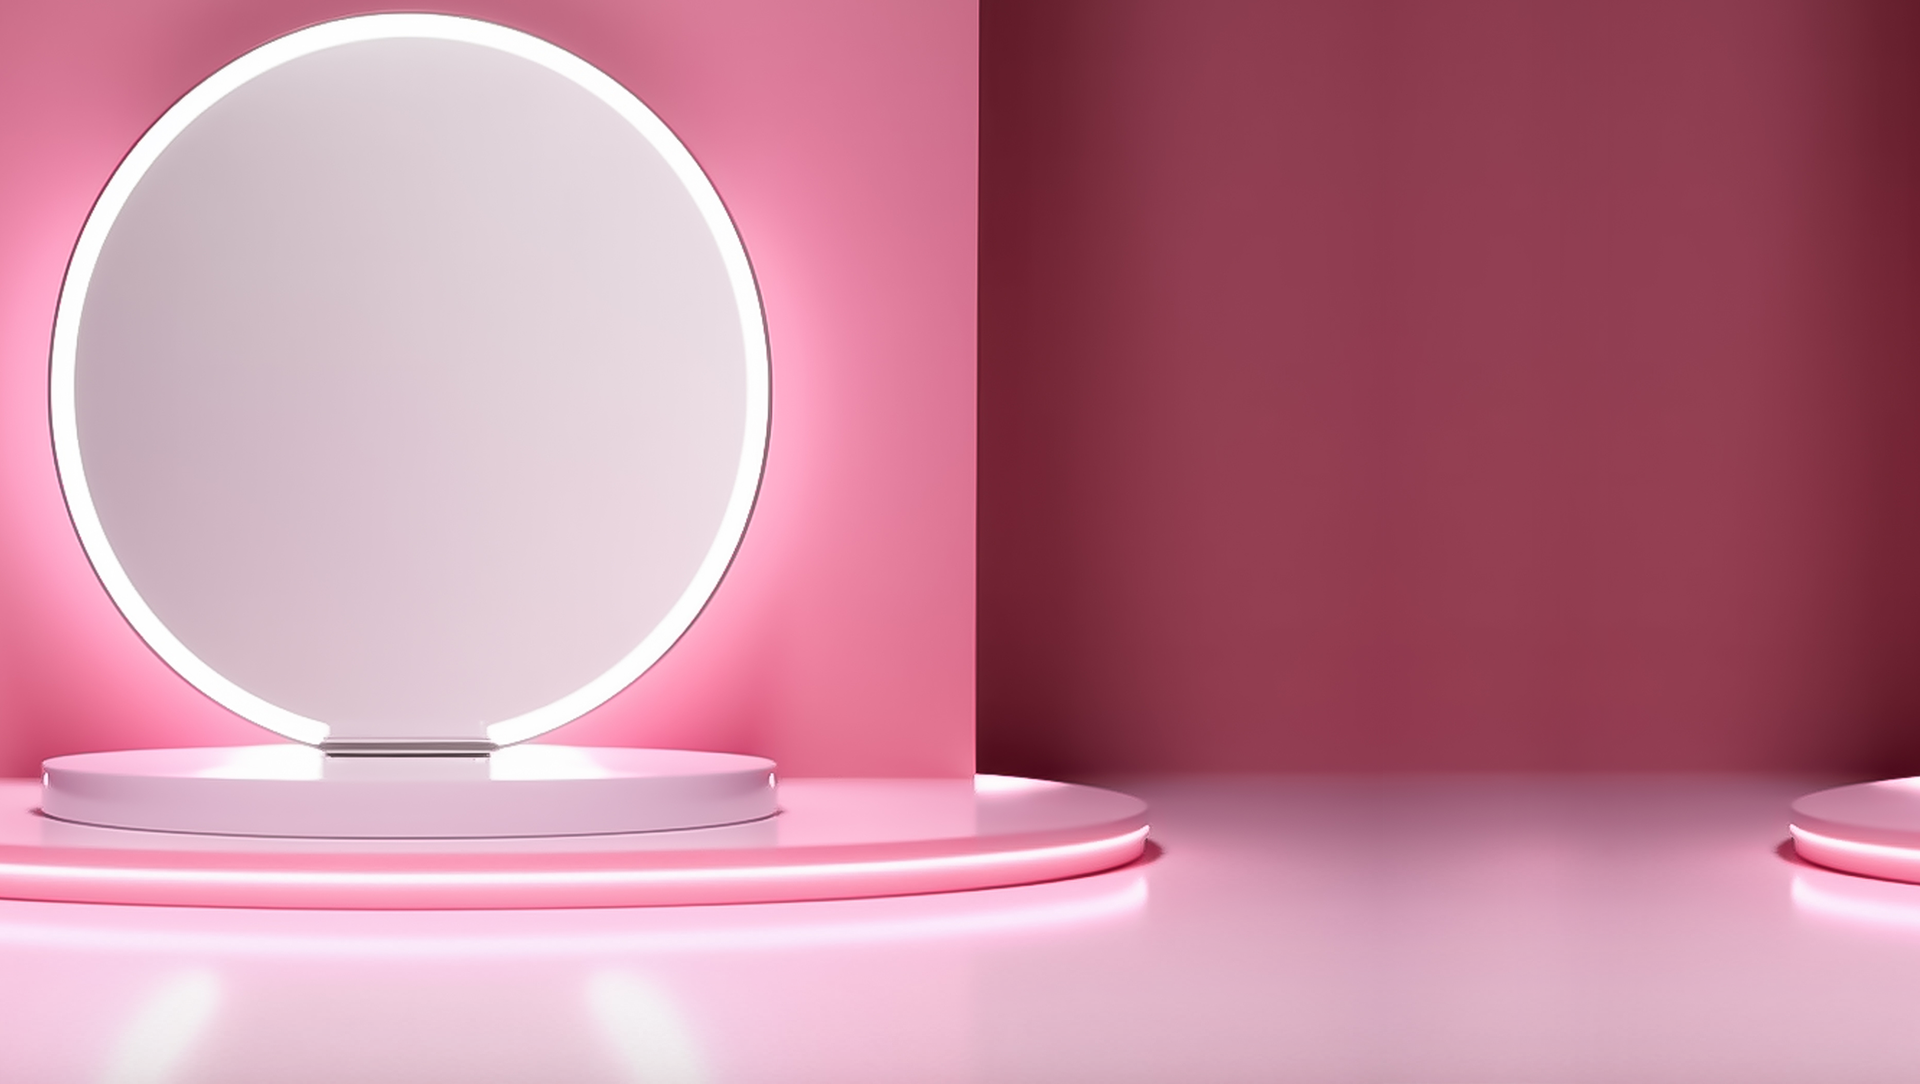
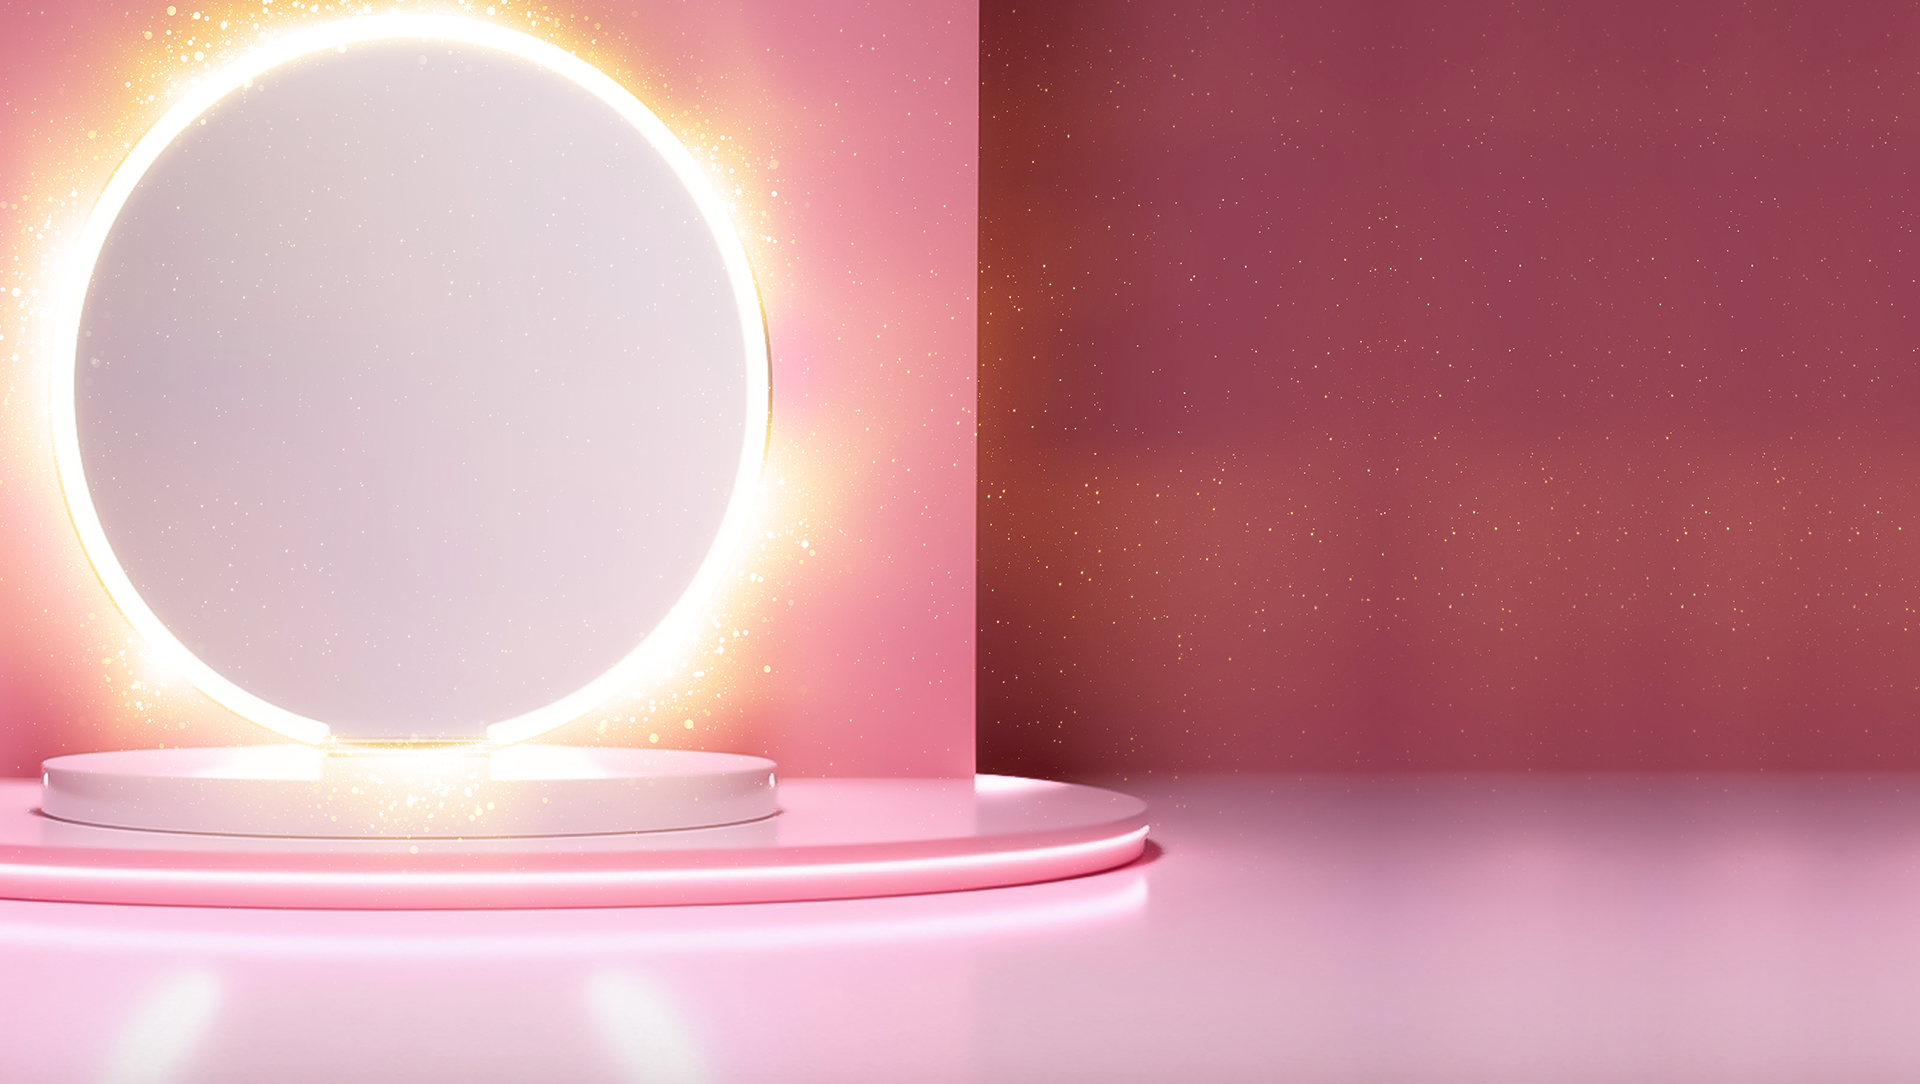
add new update for newlp

Changed region(s): [[0.0, 0.0, 0.625, 0.822], [0.9062, 0.0, 1.0, 0.8828]]

diff --git a/newLp/wheelnew.html b/newLp/wheelnew.html
@@ -1,0 +1,305 @@
+<!DOCTYPE html>
+<html lang="en">
+<head>
+    <meta charset="UTF-8">
+    <meta http-equiv="X-UA-Compatible" content="IE=edge">
+    <meta name="viewport" content="width=device-width, initial-scale=1.0">
+    <script src="https://cdnjs.cloudflare.com/ajax/libs/jquery/3.6.4/jquery.min.js"
+    integrity="sha512-pumBsjNRGGqkPzKHndZMaAG+bir374sORyzM3uulLV14lN5LyykqNk8eEeUlUkB3U0M4FApyaHraT65ihJhDpQ=="
+    crossorigin="anonymous" referrerpolicy="no-referrer"></script>
+
+    <style>
+        * {
+	 box-sizing: border-box;
+}
+ html {
+	 font-size: 100%;
+}
+ .orbit {
+	 background: #090c29;
+	 float: left;
+	 width: 100%;
+	 min-width: 100vw;
+	 min-height: 100vh;
+}
+ .orbit-icon {
+	 width: 1.6em;
+	 height: 1.6em;
+	 line-height: 1.6em;
+	 font-size: 1.2em;
+	 border-radius: 50%;
+	 background: #ccc;
+	 color: #fff;
+	 text-align: center;
+	 display: block;
+}
+ .orbit-wrap {
+	 height: 40em;
+	 list-style: none;
+	 font-size: 1.3em;
+}
+ .orbit-wrap > li {
+	 position: absolute;
+	 left: 50%;
+	 top: 50%;
+	 transform: translate(-50%, -50%);
+}
+ .orbit-wrap > li:hover ul {
+	 border-width: 2px;
+	 border-color: #fff;
+}
+ .orbit-wrap > li:hover ~ li ul {
+	 border-color: rgba(255, 255, 255, 0.2);
+}
+ .orbit-wrap > li:hover ~ li ul li {
+	 opacity: 0.4;
+}
+ ul[class^=ring] {
+	 transition: all 300ms ease-in-out;
+}
+ ul[class^=ring] li {
+	 transition: all 300ms ease-in-out;
+}
+ .ring-0 {
+	 width: 25em;
+	 height: 25em;
+	 animation: clockwiseRotate 35s linear infinite;
+}
+ .ring-0 i {
+	 animation: counterClockwiseRotate 35s linear infinite;
+}
+ .ring-0 > *:nth-of-type(1) {
+	 transform: rotate(95deg) translate(12.5em) rotate(-95deg);
+}
+ .ring-0 > *:nth-of-type(2) {
+	 transform: rotate(190deg) translate(12.5em) rotate(-190deg);
+}
+ .ring-0 > *:nth-of-type(3) {
+	 transform: rotate(285deg) translate(12.5em) rotate(-285deg);
+}
+ .ring-0 > *:nth-of-type(4) {
+	 transform: rotate(380deg) translate(12.5em) rotate(-380deg);
+}
+ .ring-1 {
+	 width: 20em;
+	 height: 20em;
+	 animation: clockwiseRotate 30s linear infinite;
+}
+ .ring-1 i {
+	 animation: counterClockwiseRotate 30s linear infinite;
+}
+ .ring-1 > *:nth-of-type(1) {
+	 transform: rotate(126.6666666667deg) translate(10em) rotate(-126.6666666667deg);
+}
+ .ring-1 > *:nth-of-type(2) {
+	 transform: rotate(253.3333333333deg) translate(10em) rotate(-253.3333333333deg);
+}
+ .ring-1 > *:nth-of-type(3) {
+	 transform: rotate(380deg) translate(10em) rotate(-380deg);
+}
+ .ring-2 {
+	 width: 15em;
+	 height: 15em;
+	 animation: clockwiseRotate 25s linear infinite;
+}
+ .ring-2 i {
+	 animation: counterClockwiseRotate 25s linear infinite;
+}
+ .ring-2 > *:nth-of-type(1) {
+	 transform: rotate(47.5deg) translate(7.5em) rotate(-47.5deg);
+}
+ .ring-2 > *:nth-of-type(2) {
+	 transform: rotate(95deg) translate(7.5em) rotate(-95deg);
+}
+ .ring-2 > *:nth-of-type(3) {
+	 transform: rotate(142.5deg) translate(7.5em) rotate(-142.5deg);
+}
+ .ring-2 > *:nth-of-type(4) {
+	 transform: rotate(190deg) translate(7.5em) rotate(-190deg);
+}
+ .ring-2 > *:nth-of-type(5) {
+	 transform: rotate(237.5deg) translate(7.5em) rotate(-237.5deg);
+}
+ .ring-2 > *:nth-of-type(6) {
+	 transform: rotate(285deg) translate(7.5em) rotate(-285deg);
+}
+ .ring-2 > *:nth-of-type(7) {
+	 transform: rotate(332.5deg) translate(7.5em) rotate(-332.5deg);
+}
+ .ring-2 > *:nth-of-type(8) {
+	 transform: rotate(380deg) translate(7.5em) rotate(-380deg);
+}
+ .ring-3 {
+	 width: 10em;
+	 height: 10em;
+	 animation: clockwiseRotate 20s linear infinite;
+}
+ .ring-3 i {
+	 animation: counterClockwiseRotate 20s linear infinite;
+}
+ .ring-3 > *:nth-of-type(1) {
+	 transform: rotate(126.6666666667deg) translate(5em) rotate(-126.6666666667deg);
+}
+ .ring-3 > *:nth-of-type(2) {
+	 transform: rotate(253.3333333333deg) translate(5em) rotate(-253.3333333333deg);
+}
+ .ring-3 > *:nth-of-type(3) {
+	 transform: rotate(380deg) translate(5em) rotate(-380deg);
+}
+ ul[class^=ring] {
+	 border: solid 1px rgba(33, 150, 243, 0.8);
+	 position: relative;
+	 padding: 0;
+	 border-radius: 50%;
+	 list-style: none;
+	 box-sizing: content-box;
+}
+ ul[class^=ring] li {
+	 display: block;
+	 position: absolute;
+	 top: 50%;
+	 left: 50%;
+	 width: 1.6em;
+	 height: 1.6em;
+	 margin: -0.8em;
+}
+/* center;
+ */
+ .orbit-center {
+	 z-index: 5;
+	 font-size: 2em;
+	 width: 1.8em;
+	 height: 1.8em;
+	 line-height: 1.8em;
+	 text-align: center;
+	 background: hotpink;
+	 border-radius: 50%;
+}
+/*  .orbit-center:hover .orbit-center__icon {
+	 transform: rotateZ(0deg);
+} */
+/*  .orbit-center__icon {
+	 transform: rotateZ(-360deg);
+	 transition: all 300ms ease-in-out;
+} */
+/*  .orbit-wrap > li.orbit-center:hover ~ li > ul {
+	 width: 0;
+	 height: 0;
+} */
+/*  .orbit-wrap > li.orbit-center:hover ~ li > ul * {
+	 transform: translate(0, 0);
+} */
+/* .orbit-wrap > li > ul {
+  transform: translateY(-200%);
+  transition: transform 0.5s ease;
+} */
+
+/* .orbit-wrap > li.orbit-center-expanded > ul {
+  transform: translate(0, 0);
+} */
+/* animations */
+ @keyframes clockwiseRotate {
+	 from {
+		 transform: rotate(0deg);
+	}
+	 to {
+		 transform: rotate(360deg);
+	}
+}
+ @keyframes counterClockwiseRotate {
+	 0% {
+		 transform: rotate(0deg);
+	}
+	 100% {
+		 transform: rotate(-360deg);
+	}
+}
+
+.ring-1 img {
+  width:140%;
+}
+    </style>
+    <title>Document</title>
+</head>
+<body>
+    
+    <div class="orbit">
+  
+        <ul class="orbit-wrap">
+          
+          <li class="orbit-center">
+            <i class="orbit-center__icon fa fa-code"></i>
+          </li>
+      
+          <li>
+            <ul class="ring-0">
+              <li><img src="https://go-testing.netbet.ro/lp-asset/netbetro/casino/roatanetbet/scatter.png"></li>
+              <li><img src="https://go-testing.netbet.ro/lp-asset/netbetro/casino/roatanetbet/bell.png"></li>
+              <li><img src="https://go-testing.netbet.ro/lp-asset/netbetro/casino/roatanetbet/bell.png"></li>
+              <li><img src="https://go-testing.netbet.ro/lp-asset/netbetro/casino/roatanetbet/bell.png"></li>
+            </ul>
+          </li>
+      
+          <li>
+            <ul class="ring-1">
+              <li><img src="https://go-testing.netbet.ro/lp-asset/netbetro/casino/roatanetbet/clover.png"></li>
+              <li><img src="https://go-testing.netbet.ro/lp-asset/netbetro/casino/roatanetbet/clover.png"></li>
+              <li><img src="https://go-testing.netbet.ro/lp-asset/netbetro/casino/roatanetbet/clover.png"></li>
+            </ul>
+          </li>
+          <li>
+            <ul class="ring-2">
+              <li><i class="orbit-icon fa fa-windows"></i></li>
+              <li><i class="orbit-icon fa fa-safari"></i></li>
+              <li><i class="orbit-icon fa fa-edge"></i></li>
+              <li><i class="orbit-icon fa fa-linux"></i></li>
+              <li><i class="orbit-icon fa fa-apple"></i></li>
+              <li><i class="orbit-icon fa fa-chrome"></i></li>
+              <li><i class="orbit-icon fa fa-android"></i></li>
+              <li><i class="orbit-icon fa fa-firefox"></i></li>
+            </ul>
+          </li>
+          <li>
+            <ul class="ring-3">
+              <li><i class="orbit-icon fa fa-coffee"></i></li>
+              <li><i class="orbit-icon fa fa-terminal"></i></li>
+              <li><i class="orbit-icon fa fa-heart-o"></i></li>
+            </ul>
+          </li>
+      
+        </ul>
+        
+      </div>
+
+    <script>
+        $(document).ready(function() {
+  var $orbitCenter = $(".orbit-wrap > li.orbit-center");
+  var $orbitItems = $orbitCenter.nextAll().find("ul > li");
+
+  function hoverOrbitItems() {
+    $orbitItems.css("transform", "translate(0, 0)");
+  }
+
+  function unhoverOrbitItems() {
+    $orbitItems.css("transform", "");
+  }
+
+  // hover on page load
+  setTimeout(function() {
+    $orbitCenter.trigger('mouseenter');
+  }, 5000);
+
+  // set interval for auto hover
+  setInterval(function() {
+    $orbitCenter.trigger('mouseenter');
+    setTimeout(function() {
+      $orbitCenter.trigger('mouseleave');
+    }, 1000);
+  }, 6000);
+
+  // bind hover events
+  $orbitCenter.hover(hoverOrbitItems, unhoverOrbitItems);
+});
+    </script>
+</body>
+</html>

diff --git a/newLp/testtt.html b/newLp/testtt.html
@@ -1,0 +1,82 @@
+<!DOCTYPE html>
+<html lang="en">
+<head>
+    <meta charset="UTF-8">
+    <meta http-equiv="X-UA-Compatible" content="IE=edge">
+    <meta name="viewport" content="width=device-width, initial-scale=1.0">
+    <style>
+        .container {
+  width: 300px;
+  height: 300px;
+  position: relative;
+}
+body {display:flex;
+align-items:center;
+justify-content:center;
+height:50vh}
+images {
+  position: absolute;
+  opacity: 0;
+  width: 50px;
+  height: 50px;
+  border-radius: 50%;
+  background-color: red;
+}
+
+#img1 {
+position:relative;
+  top:200px;
+}
+#img2 {
+position:relative;
+  top:100px;
+  left:40px;
+}
+    </style>
+    <title>Document</title>
+</head>
+<body>
+    <div id="container">
+        <img id="img1" src="https://go-testing.netbet.ro/lp-asset/netbetro/casino/roatanetbet/star.png" alt="Image 5"  class="image">
+        <img id="img2" src="https://go-testing.netbet.ro/lp-asset/netbetro/casino/roatanetbet/clover.png" alt="Image 6"  class="image">
+        <img id="img3" src="https://go-testing.netbet.ro/lp-asset/netbetro/casino/roatanetbet/star.png" alt="Image 7"  class="image">
+        <img id="img4" src="https://go-testing.netbet.ro/lp-asset/netbetro/casino/roatanetbet/clover.png" alt="Image 8"  class="image">
+            </div>
+
+
+            <script>
+                const images = document.querySelectorAll('.image');
+const center = { x: window.innerWidth / 6, y: window.innerHeight / 6 };
+
+// Initial setup for images
+images.forEach((image) => {
+  const x = parseInt(image.dataset.x) || 0; // Citeste coordonata X din atributul data-x
+  const y = parseInt(image.dataset.y) || 0; // Citeste coordonata Y din atributul data-y
+
+  image.style.opacity = '0';
+  image.style.transformOrigin = `${center.x}px ${center.y}px`;
+  image.style.transform = `translate(${x}px, ${y}px) scale(0)`;
+});
+
+// Animation for image expansion and position
+gsap.to(images, {
+  duration: 1.5,
+  opacity: 1,
+  delay: 0.5,
+  stagger: 0.5,
+  ease: 'power3.out',
+
+  scale: 1,
+  transformOrigin: `${center.x}px ${center.y}px`,
+  x: (i, el) => {
+    const x = parseInt(el.dataset.x) || 0; // Citeste coordonata X din atributul data-x al imaginii curente
+    return x;
+  },
+  y: (i, el) => {
+    const y = parseInt(el.dataset.y) || 0; // Citeste coordonata Y din atributul data-y al imaginii curente
+    return y;
+  }
+});
+            </script>
+</body>
+</html>

diff --git a/newLp/wheel.html b/newLp/wheel.html
@@ -24,7 +24,7 @@
             height: 100%;
             top: 0;
             left: 0;
-            background-image: url(./bg-2.png);
+            background-image: url(./bg-clean.png);
             /* background-position: center; */
             background-repeat: no-repeat;
             background-size: cover;
